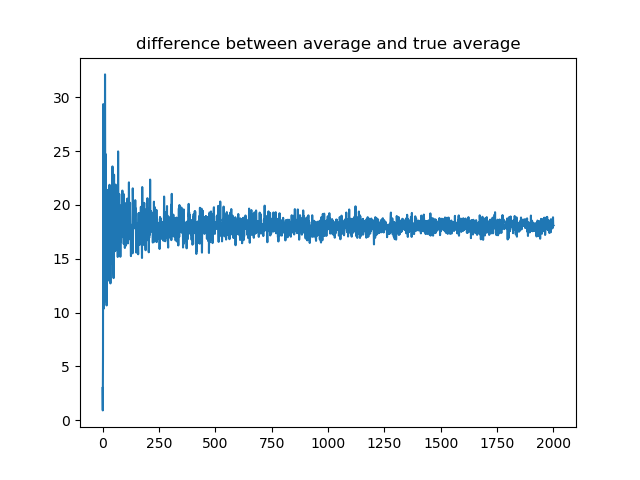
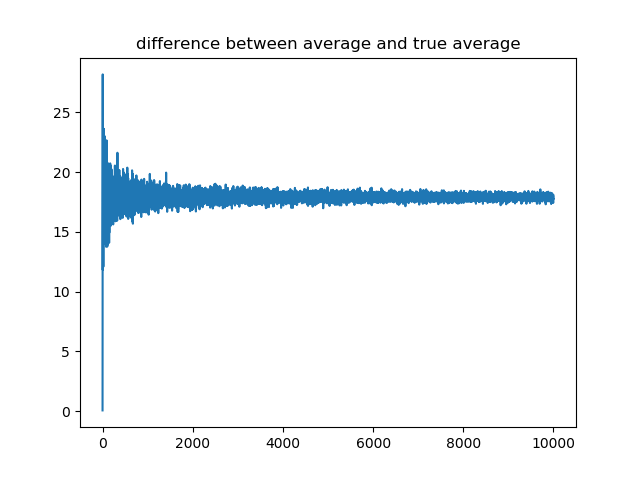
added t-distribution

diff --git a/intelligent_system/04/t.py b/intelligent_system/04/t.py
@@ -1,0 +1,53 @@
+import matplotlib.pyplot as plt
+import numpy as np
+import random
+import math
+
+def normal_gauss(n):
+	return np.random.randn(n)
+
+def chi2(n, mean, disp, k):
+	cum = np.zeros(n)
+	for i in range(k):
+		x = np.random.normal(mean, disp, n)
+		x2 = x ** 2
+		cum += x2
+	return cum
+
+def diff_from_mean(cum, mu, iterator):
+	num_cum = len(cum)
+	s_list = []
+	for i in range(iterator):
+		index = random.randrange(num_cum)
+		s_list.append(cum[index])
+	mean = np.mean(np.array(s_list))
+	return mean - mu
+
+def normalize(cum, mean, disp, iterator, n):
+	diff_val = diff_from_mean(cum, mean, iterator)
+	z = diff_val / (math.sqrt(disp) - math.sqrt(n))
+	return z
+
+def t_dist(n, cum, k):
+	gaussian = normal_gauss(n)
+	t_sample = []
+	for i in range(n):
+		t_sample.append(gaussian[i] / math.sqrt(cum[i] / 2))
+	return np.array(t_sample)
+
+iter_n = 10
+k = 2
+n = 30000
+mean = 0
+disp = 3
+cum = chi2(n, mean, disp, k) # カイ二乗分布
+t_samples = t_dist(n, cum, k)
+for i in range(iter_n): # 標本平均を取る際に使った標本の数
+	z_samples = []
+	for j in range(5000):
+		z = normalize(t_samples, mean, disp, (i + 1) * 10, n)
+		z_samples.append(z)
+	plt.clf()
+	plt.hist(np.array(z_samples), 100, normed=True)
+	plt.title("histgram : n = %d" %((i + 1) * 10))
+	plt.savefig('report4_figures/t_central_limit_%d.png' %((i + 1) * 10))

diff --git a/intelligent_system/04/large_number.py b/intelligent_system/04/large_number.py
@@ -12,23 +12,20 @@ def chi2(n, k):
 
 def large_number(cum, mu, iterator):
 	num_cum = len(cum)
-	s_list = np.ndarray([])
+	s_list = []
 	for i in range(iterator):
 		index = random.randrange(num_cum)
-		s_list = np.append(s_list, cum[index])
-	mean = np.mean(s_list)
+		s_list.append(cum[index])
+	mean = np.mean(np.array(s_list))
 	return mean - mu
 
 n = 30000
 cum = chi2(n, 2)
-diff = np.ndarray([])
-for i in range(2000):
-	diff = np.append(diff, large_number(cum, 0, i + 1))
+diff = []
+for i in range(10000):
+	diff.append(large_number(cum, 0, i + 1))
 
-cum = chi2(n, 2)
 plt.clf()
-#plt.ylim(0, 0.6)
-#plt.xlim(0, 25)
-plt.plot(diff)
+plt.plot(np.array(diff))
 plt.title("difference between average and true average")
 plt.savefig('report4_figures/large_number.png')
